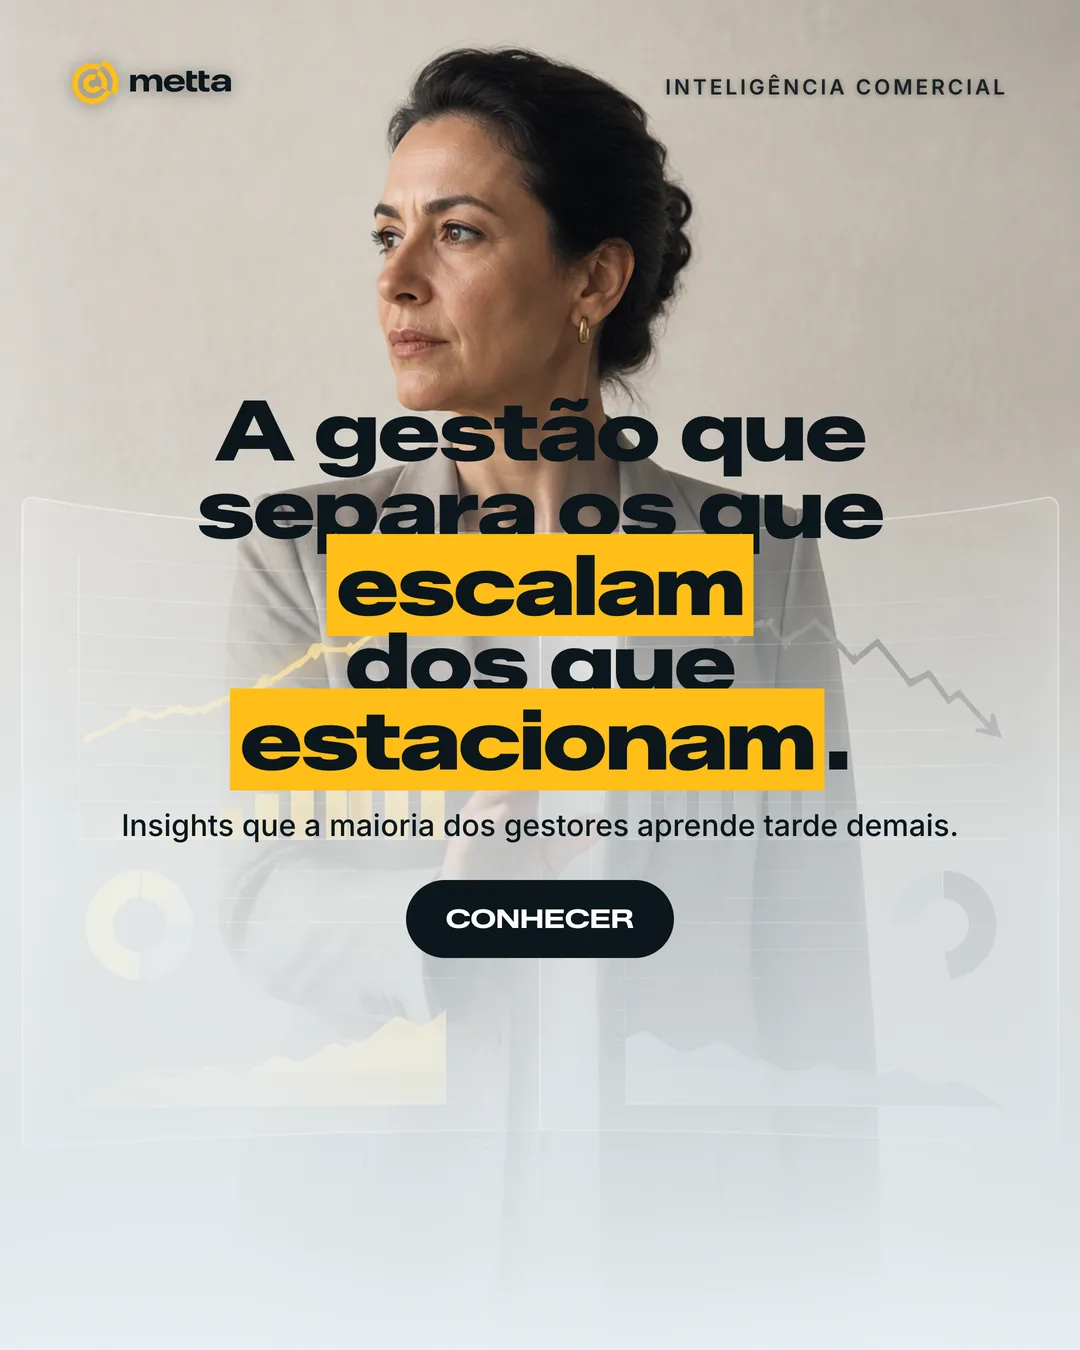
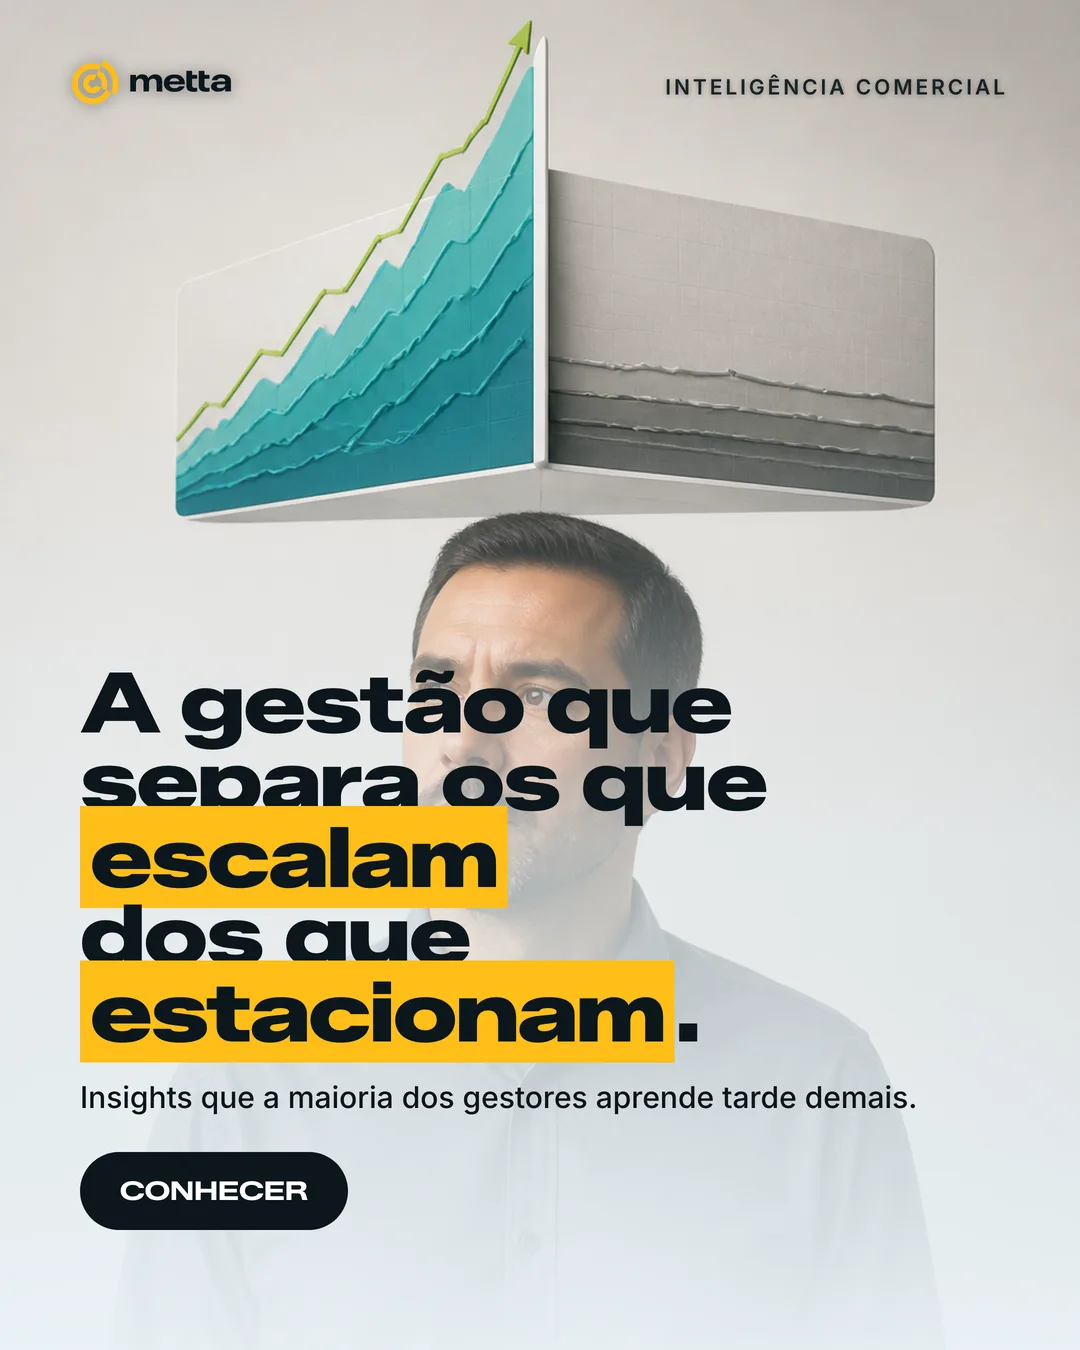
fix: completa regeneração dos previews do wizard + LIGHT-SURREAL align left
- yellow-bloco e news-card: previews regenerados pelo pipeline (round 1;
  news-card é light por design — o FAIL do crítico era referência dark
  errada do banco, não defeito da peça)
- light-surreal: regenerado com align: left no blueprint (feedback Sofia:
  composição toda centralizada) — PASS duplo vision-QA + crítico
- blueprint LIGHT-SURREAL: align center -> left (vale pra gerações futuras)

diff --git a/source/ad-blueprints/metta/LIGHT-SURREAL.md b/source/ad-blueprints/metta/LIGHT-SURREAL.md
@@ -3,7 +3,7 @@ id: LIGHT-SURREAL
 display_name: "Fundo claro + colagem ilustrativa surreal"
 marca: metta
 archetype: photo-full
-params: { theme: light, anchor: bottom, align: center, case: sentence, cta: dark }
+params: { theme: light, anchor: bottom, align: left, case: sentence, cta: dark }
 slots: [tag, headline, subhead, body, cta]
 image: { prompt_ref: image-prompts/metta/style-LIGHT-SURREAL.md, required: true, treatment: "ilustração/colagem surreal fundo claro" }
 formato_nativo: [story, feed]
